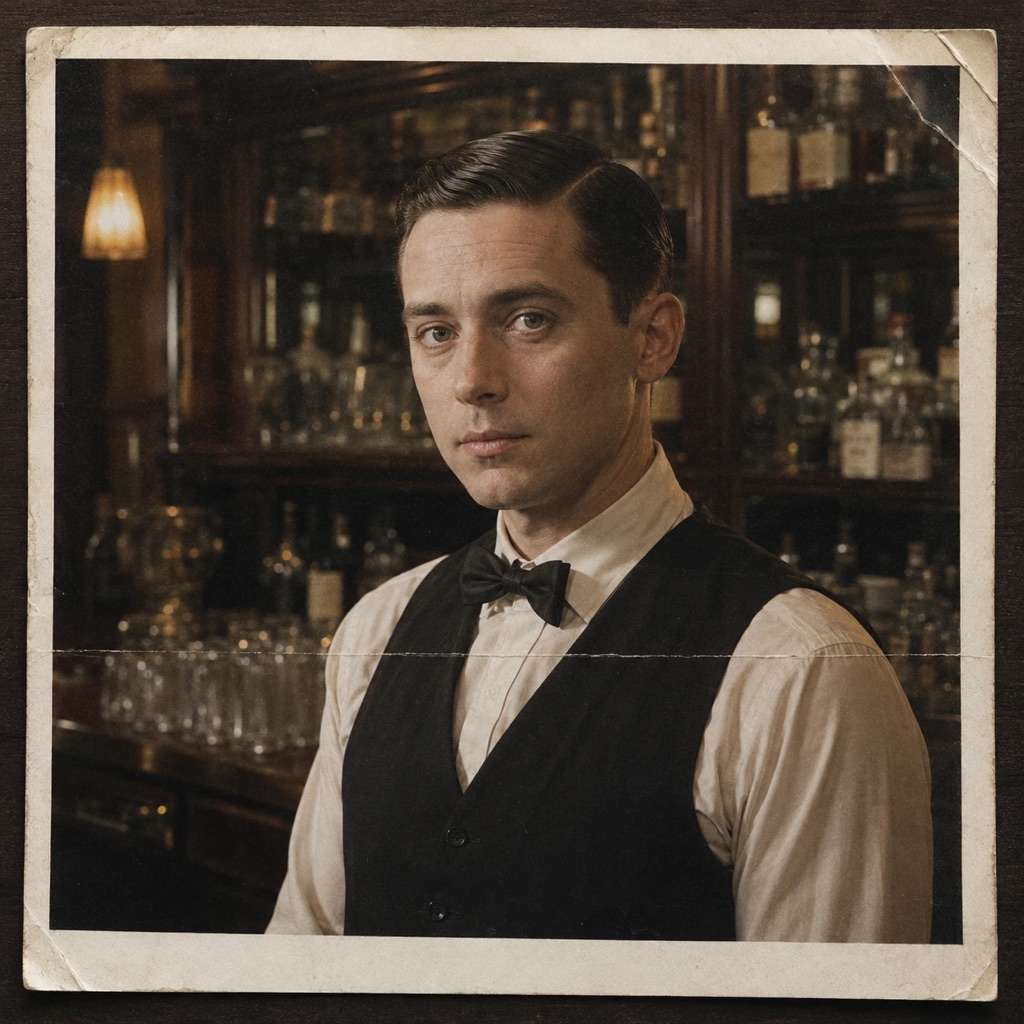
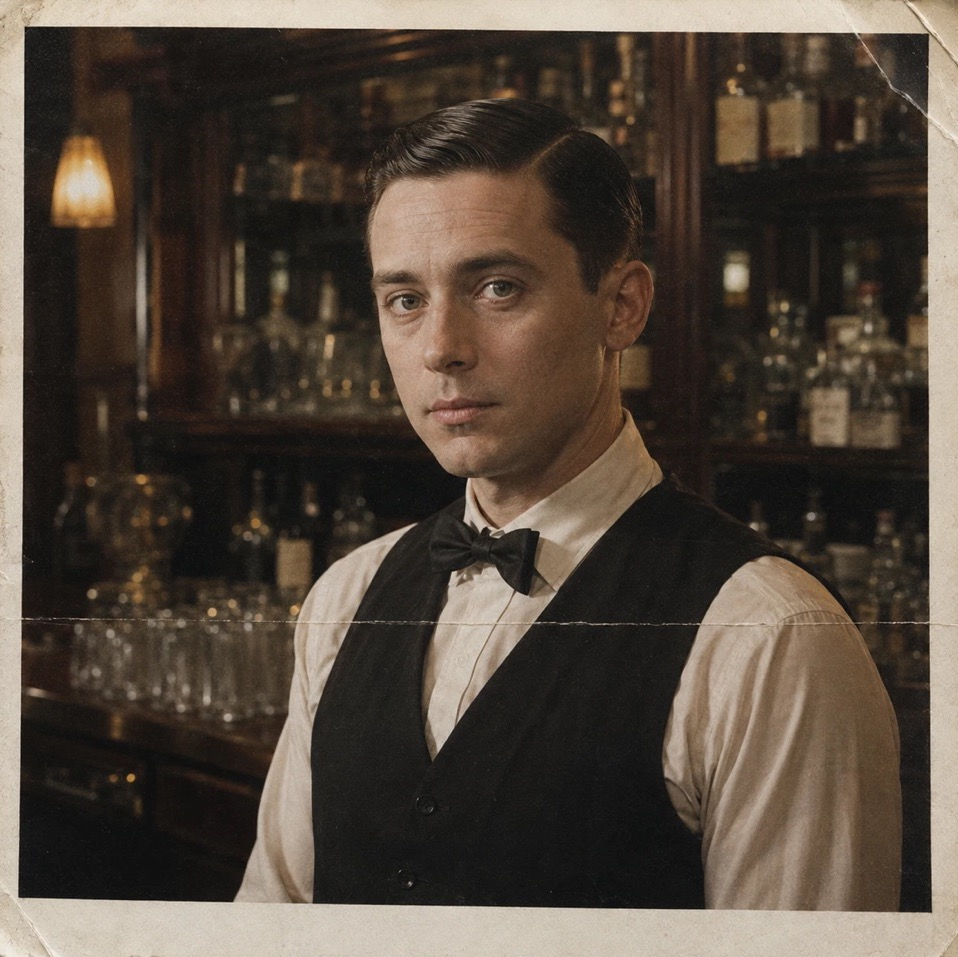
ui(nokturn): нити поверх карточек, точные зоны поиска, портреты без рамки
- Слой нитей поднят над карточками (z-index 5), кнопка дня над ним (6):
  нить больше не ныряет под улику, которую связывает.
- Горячие зоны поиска обведены по самим предметам, а не по углу комнаты.
- В списке мини-игры названия предметов вместо прочерков, список перекрашен
  под нуарное окно.
- У портретов срезана чёрная рамка: она была не в вёрстке, а в файлах —
  снимок сгенерирован лежащим на тёмном дереве. Все восемь обрезаны по краю
  отпечатка.

diff --git a/frontend/app/events/nokturn/content.ts b/frontend/app/events/nokturn/content.ts
@@ -510,17 +510,22 @@ export const NOKTURN_STAGES: NokturnStage[] = [
       title: 'Поиск предметов',
       background: '/events/nokturn/scene-office.jpg',
       attemptSeconds: 150,
+      /*
+        Зоны обведены по самим предметам, а не по углу комнаты: раньше рамки
+        были вдвое шире предмета и попадали «мимо, но засчитано». Координаты —
+        доли кадра scene-office.jpg от левого верхнего угла.
+      */
       hotspots: [
-        { evidenceId: 'mon-lock', x: 0.015, y: 0.07, w: 0.075, h: 0.3, label: 'Дверная ручка' },
-        { evidenceId: 'mon-hat', x: 0.155, y: 0.155, w: 0.06, h: 0.09, label: 'Шляпа' },
-        { evidenceId: 'mon-case', x: 0.105, y: 0.6, w: 0.07, h: 0.11, label: 'Портфель' },
-        { evidenceId: 'mon-inkstand', x: 0.21, y: 0.66, w: 0.07, h: 0.08, label: 'Чернильный прибор' },
-        { evidenceId: 'mon-claim', x: 0.39, y: 0.62, w: 0.085, h: 0.095, label: 'Требование' },
-        { evidenceId: 'mon-cigarette', x: 0.455, y: 0.578, w: 0.058, h: 0.068, label: 'Пепельница' },
-        { evidenceId: 'mon-glass', x: 0.562, y: 0.58, w: 0.055, h: 0.066, label: 'Стакан' },
-        { evidenceId: 'mon-recorder', x: 0.575, y: 0.4, w: 0.09, h: 0.09, label: 'Диктофон' },
-        { evidenceId: 'mon-poster', x: 0.7, y: 0.04, w: 0.09, h: 0.15, label: 'Афиша' },
-        { evidenceId: 'mon-cable', x: 0.865, y: 0.6, w: 0.09, h: 0.12, label: 'Обрезки кабеля' }
+        { evidenceId: 'mon-lock', x: 0.015, y: 0.1, w: 0.08, h: 0.3, label: 'Дверная ручка' },
+        { evidenceId: 'mon-hat', x: 0.16, y: 0.165, w: 0.05, h: 0.07, label: 'Шляпа' },
+        { evidenceId: 'mon-case', x: 0.105, y: 0.62, w: 0.07, h: 0.08, label: 'Портфель' },
+        { evidenceId: 'mon-inkstand', x: 0.215, y: 0.67, w: 0.06, h: 0.06, label: 'Чернильный прибор' },
+        { evidenceId: 'mon-claim', x: 0.39, y: 0.633, w: 0.08, h: 0.07, label: 'Требование' },
+        { evidenceId: 'mon-cigarette', x: 0.4615, y: 0.588, w: 0.045, h: 0.05, label: 'Пепельница' },
+        { evidenceId: 'mon-glass', x: 0.569, y: 0.588, w: 0.04, h: 0.05, label: 'Стакан' },
+        { evidenceId: 'mon-recorder', x: 0.585, y: 0.41, w: 0.07, h: 0.07, label: 'Диктофон' },
+        { evidenceId: 'mon-poster', x: 0.7125, y: 0.055, w: 0.065, h: 0.12, label: 'Афиша' },
+        { evidenceId: 'mon-cable', x: 0.87, y: 0.61, w: 0.08, h: 0.1, label: 'Обрезки кабеля' }
       ]    }
   },
   {

diff --git a/frontend/app/assets/main.css b/frontend/app/assets/main.css
@@ -20653,12 +20653,18 @@ body.nk-body-locked {
   bottom: 10px;
 }
 
+/*
+  Нити идут поверх карточек: нить связывает улики, и если она ныряет под
+  карточку, связь теряется ровно там, где на неё смотрят. Кнопка дня остаётся
+  выше нитей, иначе главное действие перечёркивается.
+*/
 .nk-board__web {
   position: absolute;
   inset: 0;
   width: 100%;
   height: 100%;
   pointer-events: none;
+  z-index: 5;
 }
 
 .nk-board__thread {
@@ -20729,7 +20735,7 @@ body.nk-body-locked {
   left: 14px;
   bottom: 14px;
   max-width: min(420px, 60%);
-  z-index: 4;
+  z-index: 6;
 }
 
 /*
@@ -22087,4 +22093,21 @@ body.nk-body-locked {
 
 .nk-modal__note {
   color: var(--nk-on-dark-soft);
+}
+
+/*
+  Список предметов в поиске: теперь это задание, а не прочерки, поэтому
+  названия видны сразу. Найденное заливается бирюзой, ненайденное — обводка
+  по тёмному: окно мини-игры стало нуарным, и прежний чёрный текст в нём
+  пропадал.
+*/
+.nk-search__checklist li {
+  border-color: var(--nk-shell-line);
+  color: var(--nk-on-dark-soft);
+}
+
+.nk-search__checklist li.is-found {
+  background: var(--nk-accent-deep);
+  border-color: var(--nk-accent);
+  color: var(--nk-on-dark);
 }

diff --git a/frontend/app/components/nokturn/NokturnSearchGame.vue b/frontend/app/components/nokturn/NokturnSearchGame.vue
@@ -50,7 +50,7 @@
           :key="h.evidenceId"
           :class="{ 'is-found': found.includes(h.evidenceId) }"
         >
-          {{ found.includes(h.evidenceId) ? h.label : '— — —' }}
+          {{ h.label }}
         </li>
       </ul>
       <p v-if="result" class="nk-search__result" role="status">{{ result }}</p>

diff --git a/docs/CHANGELOG.md b/docs/CHANGELOG.md
@@ -4,6 +4,15 @@
 
 ## 2026-10-26
 
+### UI: нити поверх карточек, точные зоны поиска, чёрная рамка срезана с портретов
+
+- **Красная нить идёт поверх карточек** (`.nk-board__web`, `z-index: 5`). Раньше слой нитей лежал первым в разметке и уходил под карточки: связь терялась ровно там, где на неё смотрят. Кнопка дня поднята до 6, чтобы главное действие не перечёркивалось.
+- **Горячие зоны поиска обведены по предметам**, а не по углу комнаты: были вдвое шире предмета и давали «мимо, но засчитано». Самая мелкая зона теперь 4% кадра (стакан), самая крупная — дверь.
+- **В списке внизу мини-игры названия предметов**, а не прочерки: это задание, а не загадка. Найденное заливается бирюзой. Заодно список перекрашен под нуарное окно, прежний чёрный текст в нём пропадал.
+- **Чёрная рамка у портретов срезана.** Она была не в вёрстке, а в самих файлах: снимок сгенерирован лежащим на тёмном дереве, и это дерево попадало в кадр. Все восемь портретов обрезаны по краю отпечатка по реальной границе светлого поля.
+
+**Как проверить** (localhost, `NOKTURN_DEV_NOW=2026-10-27T11:00:00+03:00`): у портретов на доске нет чёрной рамки; в мини-игре внизу названия всех десяти предметов, клик мимо предмета не засчитывается; нить между двумя уликами видна целиком и не ныряет под карточку.
+
 ### UI: нуарная оболочка квеста и календарь без понедельника
 
 **Оболочка.** Страница квеста стала тёмной: дерево, тени, костяной текст, бирюза акцентом. Доска, карточки улик и портреты не тронуты — у них своя светлая бумага, иначе снимки на пробке перестанут читаться.
